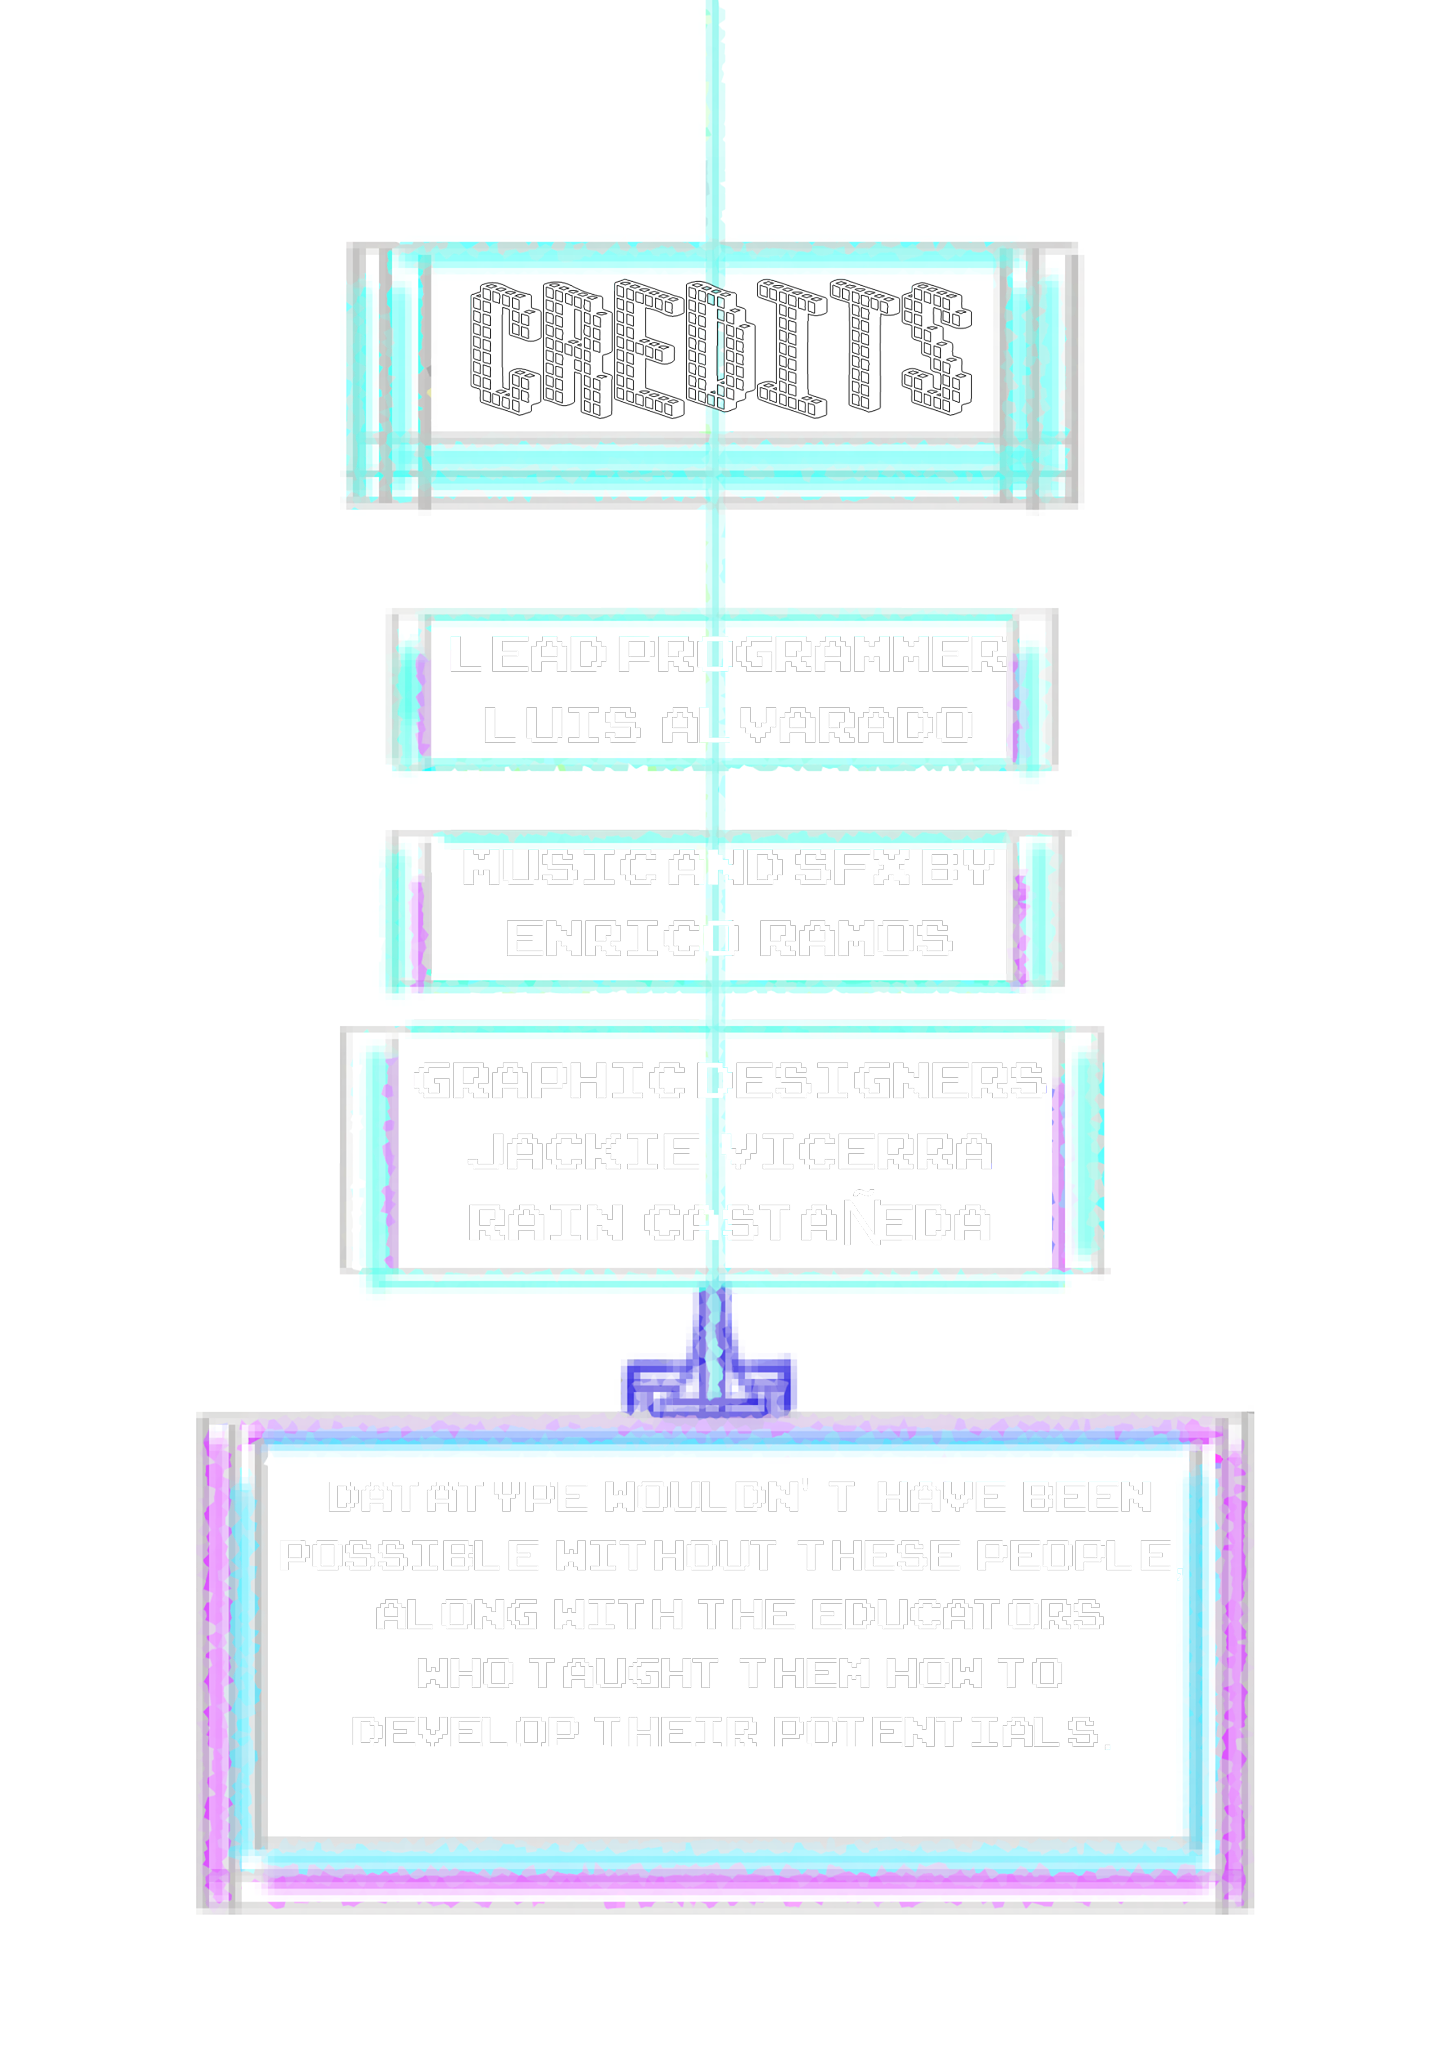
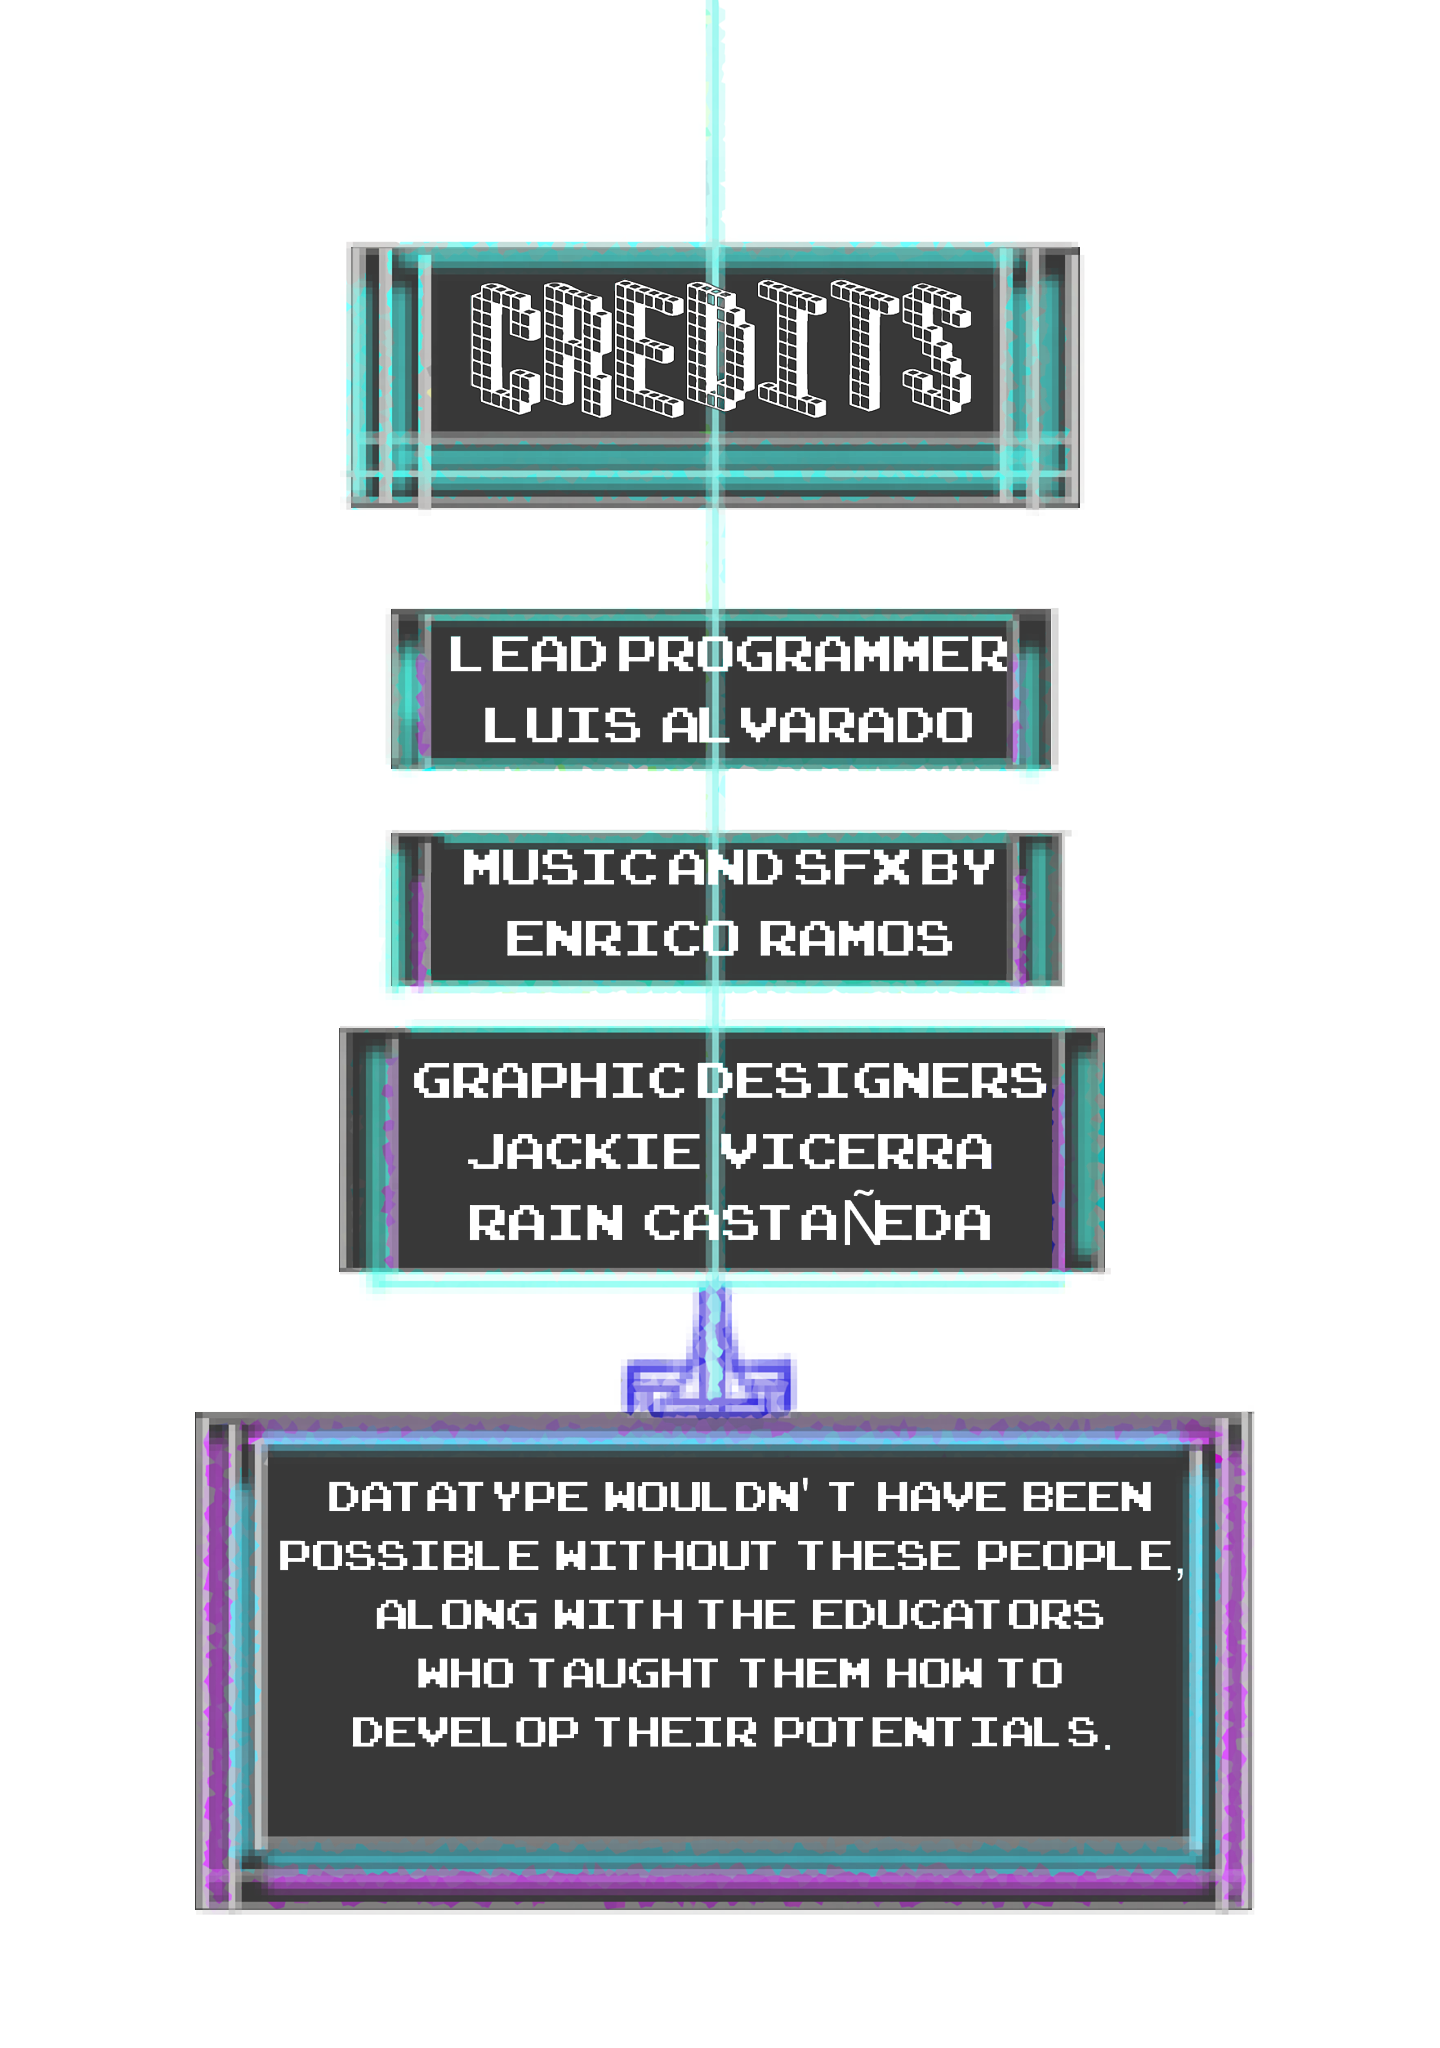
added credits and instructions

diff --git a/game/gamemode.py b/game/gamemode.py
@@ -1,6 +1,7 @@
 from game.core import *
 from utils.interface import *
 from utils.sounds import bgm_game_mode, sfx_pause
+from math import floor
 
 
 def update_timer_label():
@@ -44,7 +45,10 @@ def code_textbox_click_event():
 gamemode_bg = AnimatedBackground('assets/backgrounds/gamemode_bg.gif', window)
 uivars.add_ui_background(uivars.GAME_MODE, gamemode_bg)
 
-codeline_label = Label(gamevars.codeline_str, font_name="Consolas")
+font_scale = window.height / 864
+code_font_size = floor(15*font_scale) + 1
+
+codeline_label = Label(gamevars.codeline_str, font_name="Consolas", font_size=code_font_size)
 codeline_label.set_coor(window.width // 2, (window.height // 2) - codeline_label.content_height - 30)
 codeline_label.pyglet_coor(window)
 codeline_label.center()
@@ -67,7 +71,7 @@ timer_label = Label(str(gamevars.timer), font_name="Arcade Alternate", font_size
 timer_label.set_anchor(uivars.UPPER_RIGHT)
 uivars.add_ui_label(uivars.GAME_MODE, timer_label)
 
-code_textbox = Textbox(window.batch, width=7 * window.width // 8, font_name='Consolas', font_size=11, pad=10)
+code_textbox = Textbox(window.batch, width=7 * window.width // 8, font_name='Consolas', font_size=code_font_size, pad=10)
 code_textbox.set_box_color(25, 25, 25, 200)
 code_textbox.set_text_color(0, 255, 0, 255)
 code_textbox.set_caret_color(0, 255, 0)

diff --git a/game/credits.py b/game/credits.py
@@ -6,7 +6,7 @@ def back_button_event():
     gamevars.game_state = uivars.MAIN_MENU
 
 
-credits_bg = Background('assets/backgrounds/credits_bg.png', window)
+credits_bg = AnimatedBackground('assets/backgrounds/credits_bg.gif', window)
 uivars.add_ui_background(uivars.CREDITS, credits_bg)
 
 

diff --git a/game/core.py b/game/core.py
@@ -185,6 +185,7 @@ display = pyglet.canvas.get_display()
 screen = display.get_screens()[0]
 window_w = screen.width
 window_h = screen.height
+print('Window size: {} x {}'.format(window_w, window_h))
 
 if gamevars.debug_res:
     window_w = 800
